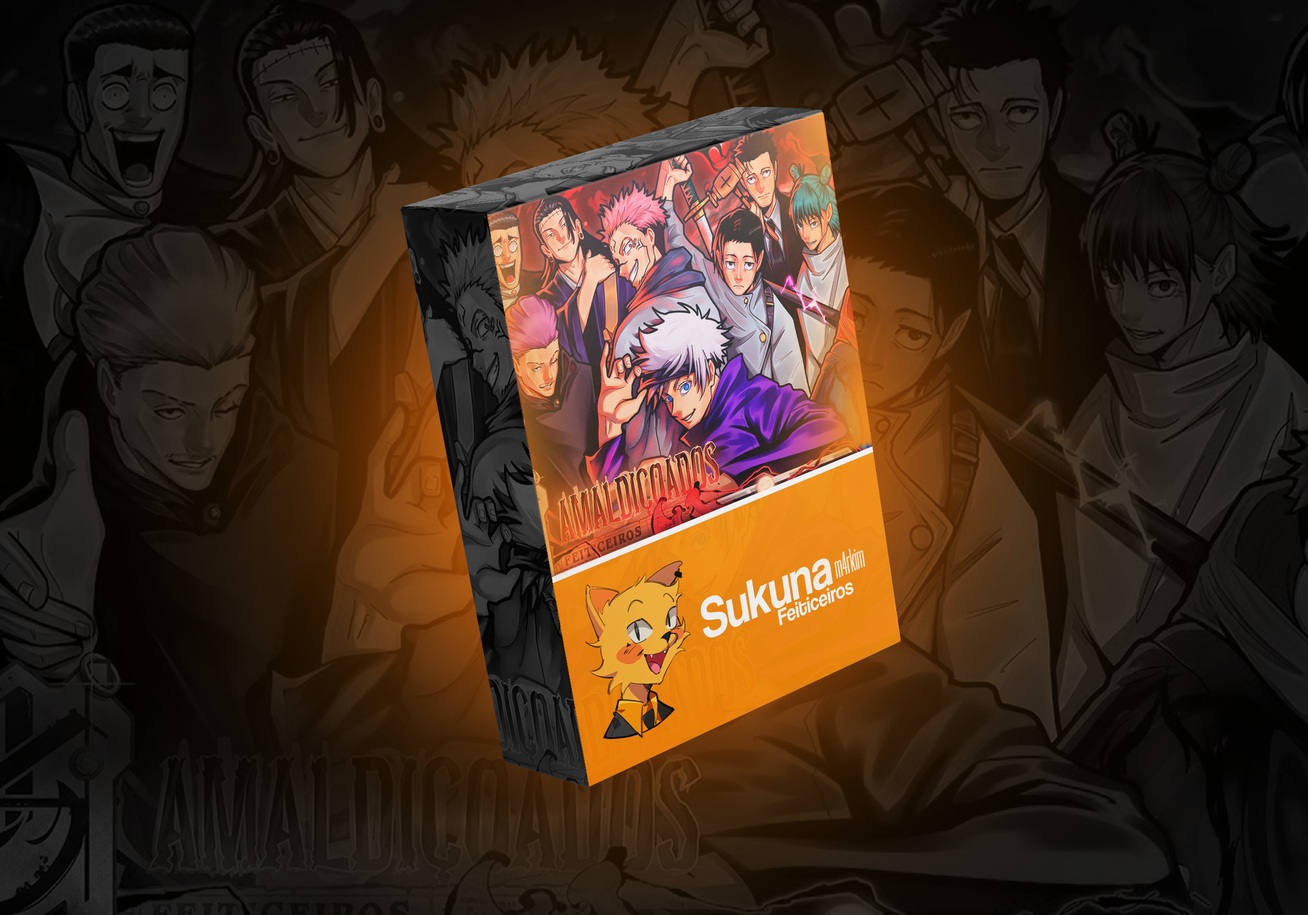
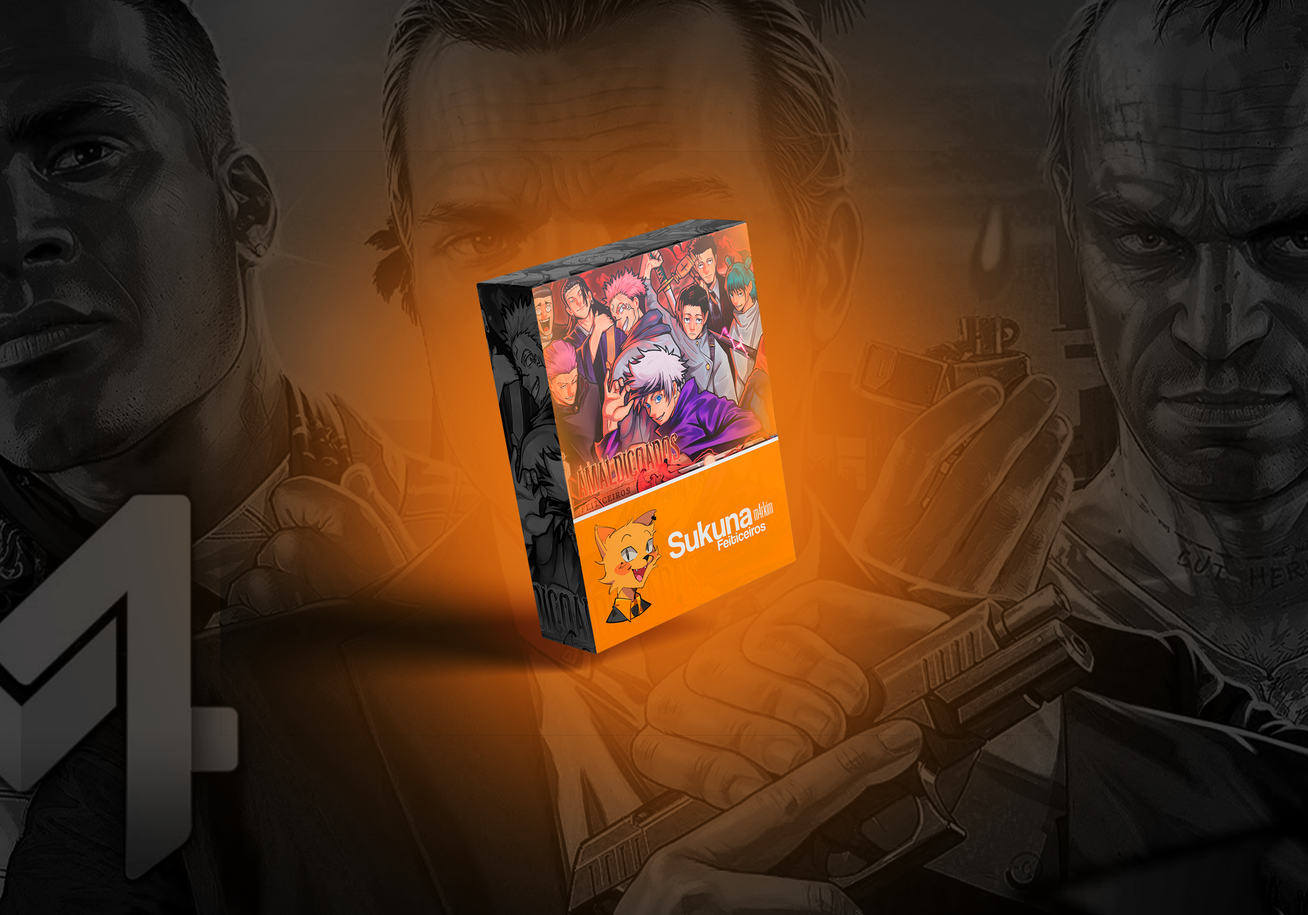
Novo layout e cores do site

diff --git a/index.html b/index.html
@@ -24,7 +24,7 @@
         <!--OVERLAY-->
         <header style="height: 56px;">
             <!--Navbar-->
-            <nav class="navbar fixed-top navbar-expand-lg bg-dark bg-body-tertiary" data-bs-theme="dark">
+            <nav class="navbar fixed-top bg-tertiary navbar-expand-lg" data-bs-theme="dark">
                 <div class="container-fluid">
                     <div class="container-fluid d-flex d-lg-none flex-nowrap">
                         <button class="navbar-toggler" type="button" data-bs-toggle="collapse" data-bs-target="#navbarTogglerDemo02" aria-controls="navbarTogglerDemo02" aria-expanded="false" aria-label="Toggle navigation">
@@ -114,13 +114,13 @@
                         <!-- LOGO DO MEIO -->
                         <div class="container d-none d-lg-flex justify-content-center" id="logonav">
                             <a class="navbar-brand" href="#">
-                                <img src="assets/img/icon.jpg" alt="Logo" width="60" height="60" class="d-inline-block align-text-top">
+                                <img src="assets/img/logonav.png" alt="Logo" height="40" class="d-inline-block align-text-top">
                             </a>
                         </div>
                         <!-- LOGO DO MEIO -->
                         <!--Itens da direita-->
                         <form class="d-flex" role="search">
-                            <input class="form-control border border-warning me-2 text-center" id="search" type="search" placeholder="Procure um projeto" aria-label="Search"/>
+                            <input class="form-control border bg-tertiary border-warning me-2 text-center" id="search" type="search" placeholder="Procure um projeto" aria-label="Search"/>
                         </form>
                         <!--Itens da direita-->
                     </div>
@@ -237,7 +237,7 @@
                                     <div class="card">
                                         <img src="assets/img/sukuna.png" class="card-img-top object-fit-cover rounded" height="210" alt="teste">
                                         <div class="card-body">
-                                            <h2 class="mb-1 card-title">Projeto Sukuna - M4rkim</h2>
+                                            <h2 class="mb-1 card-title">PROJETO SUKUNA - M4RKIM</h2>
                                             <h5 class="card-body">R$ 87,90</h5>
                                             <a href="pages/projeto_SuMk.html" class="btn btn-warning">Saber mais</a>
                                         </div>
@@ -245,7 +245,7 @@
                                 </div>
                                 <div class="col mb-3 fadein-transformY item" style="animation-duration: 1.5s;">
                                     <div class="card">
-                                        <img src="assets/img/paisagem2.webp" class="card-img-top object-fit-cover rounded" height="210" alt="teste">
+                                        <img src="assets/img/gtav.png" class="card-img-top object-fit-cover rounded" height="210" alt="teste">
                                         <div class="card-body">
                                             <h2 class="mb-1 card-title">Projeto GTA V - M4rkim</h2>
                                             <h5 class="card-body">R$ 127,90</h5>
@@ -303,11 +303,10 @@
                     </div>
                     <!--COLUNA ESQUERDA-->
                     <!--COLUNA DIREITA-->
-                    <div class="col-auto col-md-5 mt-4 bg-warning d-flex overflow-y-hidden z-1" style="height: calc(100vh - 76px);">
+                    <div class="col-auto col-md-5 mt-2 bg-warning d-flex overflow-y-hidden z-1" style="height: calc(100vh - 63px);">
                         <div class="container">
-                            <div class="row">
-                                <h1 class="display-1 fadein-transformX avatar-text1 mb-0">Nog Ediits</h1>
-                                <p class="h1 fadein-transformX mb-0 avatar-text2" style="animation-duration: 3.5s;">Meus projetinhos</p>
+                            <div class="row text-center">
+                                <h1 class="fadein-transformX avatar-text1 mb-0">PROJETOS</h1>
                             </div>
                             <div class="row fadein-transformY">
                                 <video autoplay muted loop playinline height="700">

diff --git a/assets/scss/custom.scss b/assets/scss/custom.scss
@@ -1,5 +1,6 @@
 $warning: #FF9000;
 $warning-hover: #cf7500;
+$tertiary: #0E0E0E;
 
 @font-face {
     font-family: 'Coolvetica-Hv-Comp';
@@ -15,7 +16,30 @@ $warning-hover: #cf7500;
     font-style: normal;
 }
 
+::-webkit-scrollbar {
+    width: 8px;
+}
 
+::-webkit-scrollbar-track {
+    background: transparent;
+}
+
+
+::-webkit-scrollbar-thumb {
+    background-color: rgba(0, 0, 0, 0.3);
+    border-radius: 10px;
+}
+
+
+.card-title {
+    font-family: 'Coolvetica-Regular', sans-serif !important;
+    font-size: 30px;
+    text-transform: uppercase;
+}
+
+.bg-tertiary {
+    background-color: $tertiary !important;
+}
 
 .bg-warning {
     background-color: $warning !important;
@@ -28,10 +52,10 @@ $warning-hover: #cf7500;
 
 .avatar-text1 {
     font-family: 'Coolvetica-Hv-Comp', sans-serif;
-    font-size: 120px;
+    font-size: 150px;
 }
 
 .avatar-text2 {
     font-family: 'Coolvetica-Regular', sans-serif;
-    font-size: 60px;
+    font-size: 50px;
 }

diff --git a/assets/css/custom.css b/assets/css/custom.css
@@ -10,6 +10,29 @@
   font-weight: normal;
   font-style: normal;
 }
+::-webkit-scrollbar {
+  width: 8px;
+}
+
+::-webkit-scrollbar-track {
+  background: transparent;
+}
+
+::-webkit-scrollbar-thumb {
+  background-color: rgba(0, 0, 0, 0.3);
+  border-radius: 10px;
+}
+
+.card-title {
+  font-family: "Coolvetica-Regular", sans-serif !important;
+  font-size: 30px;
+  text-transform: uppercase;
+}
+
+.bg-tertiary {
+  background-color: #0E0E0E !important;
+}
+
 .bg-warning {
   background-color: #FF9000 !important;
 }
@@ -21,12 +44,12 @@
 
 .avatar-text1 {
   font-family: "Coolvetica-Hv-Comp", sans-serif;
-  font-size: 120px;
+  font-size: 150px;
 }
 
 .avatar-text2 {
   font-family: "Coolvetica-Regular", sans-serif;
-  font-size: 60px;
+  font-size: 50px;
 }
 
 /*# sourceMappingURL=custom.css.map */
